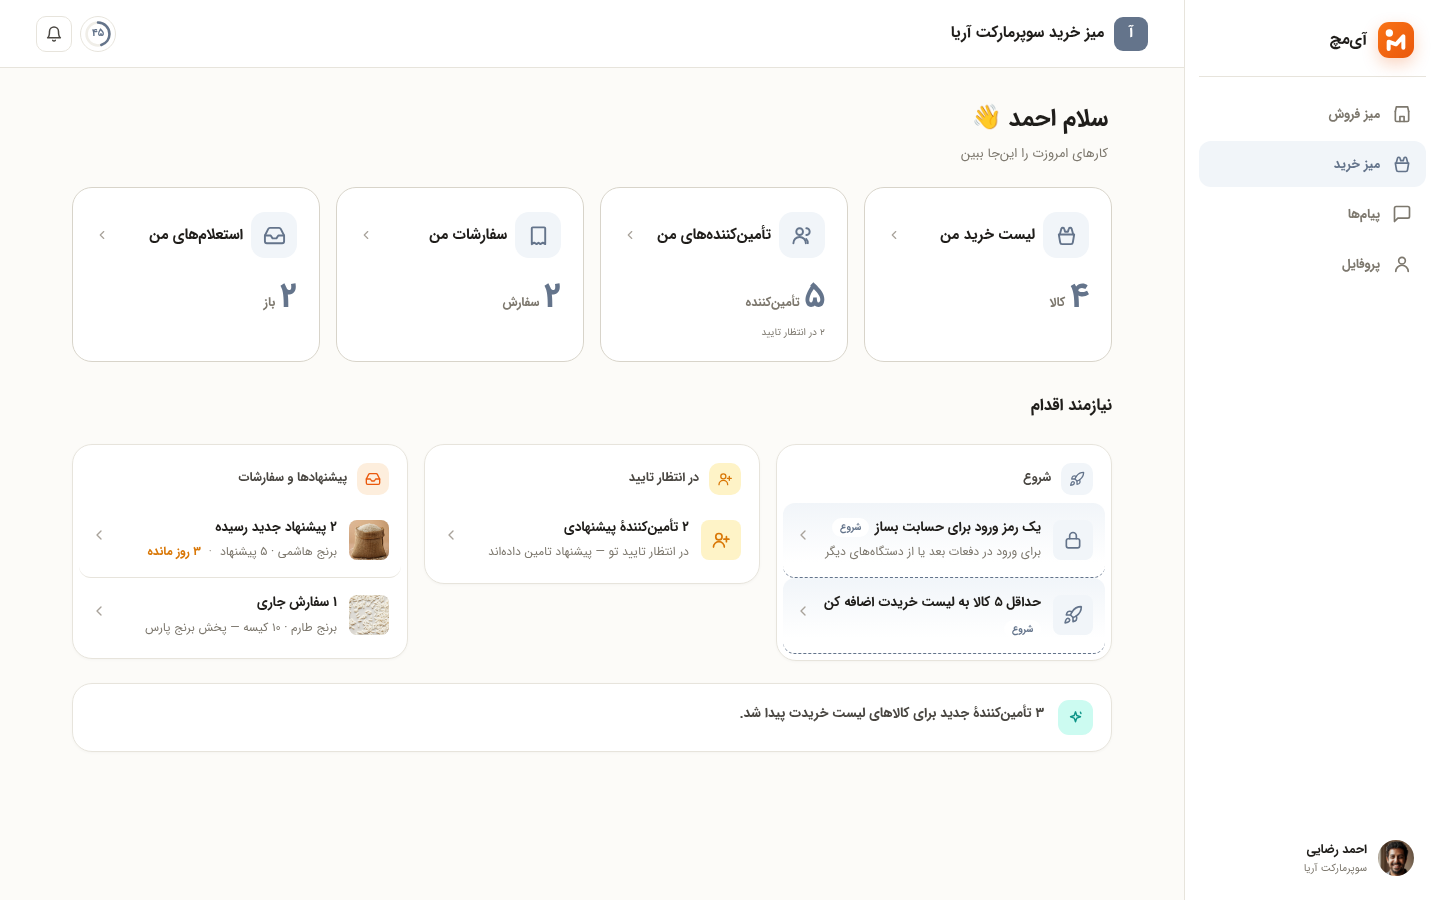
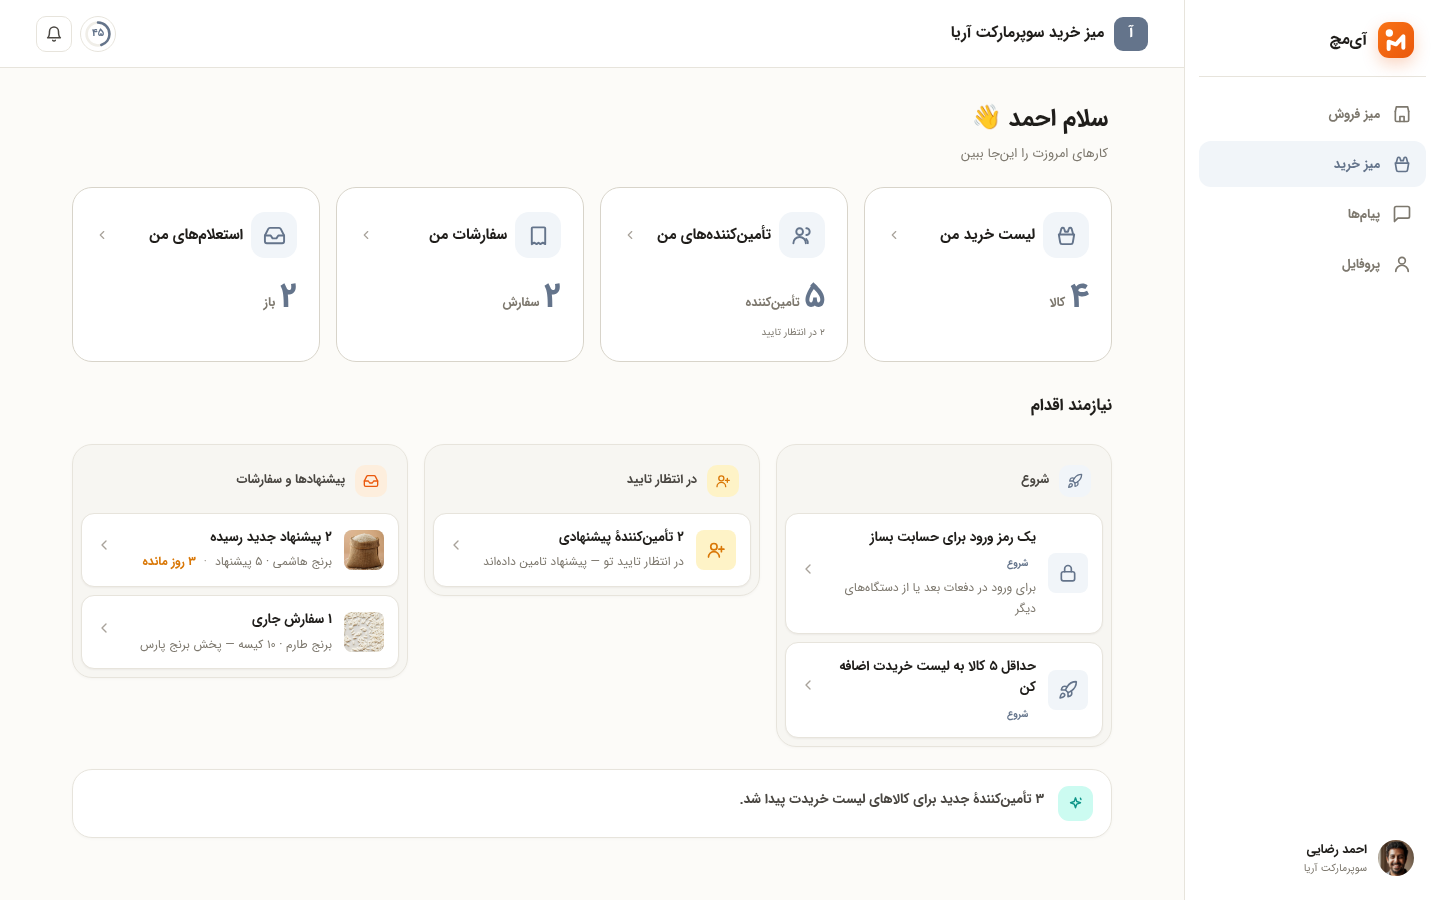
feat(FD-30 p3): lists de-glued + proportional + phase-3 grids/hero (owner: 'ردیفها در لیستها بههمچسبیده و مارجین تاپ نداری — زشت شده؛ بعضی لیستها عرض زیاد ولی ارتفاع موبایل — شبیه لولههای دراز؛ عرض بیشتر ⇔ کمی ارتفاع بیشتر برای تناسب') · GLOBAL: FD-29 single-paper+hairline pattern REPLACED by owner 

diff --git a/prototypes/imach-final-design/style.css b/prototypes/imach-final-design/style.css
@@ -4377,57 +4377,59 @@ textarea.input { height: auto; min-height: 88px; padding: 11px 13px; display: bl
     #phone[data-dk="1"] .dk-page .section-title h2 { font-size: 16.5px; }
     #phone[data-dk="1"] .dk-page .section-title h2 svg { width: 20px; height: 20px; }
 
-    /* ─── FD-29: ظرف کارت برای بدنه — محتوا مشخص دیده شود
-       (حکم مالک: «کانتینر کارتمانند که محتوا در بدنه کمی مشخصتر
-       دیده بشه، نه اینقدر بیروح و گمشده») — فهرستها روی یک
-       کاغذ واحد؛ ردیفها مسطح با خط مویی (الگوی جدولِ دسکتاپ). ─── */
-    #phone[data-dk="1"] .dk-list .body > .rows,
-    #phone[data-dk="1"] .dk-page .body > .rows,
-    #phone[data-dk="1"] .dk-desk .body > .rows,
+    /* ─── FD-30 (حکم مالک، بازطراحی لیستها): ردیفهای چسبیده حذف ───
+       «چرا ردیفها در لیستها بههمچسبیده و مارجین تاپ نداری؟ زشت
+       شده» + «وقتی عرض بیشتر میشود ارتفاع هم کمی بیشتر شود که
+       تناسب بیاید — نه لولهٔ دراز». الگوی FD-29 (کاغذ واحد + ردیفِ
+       مسطح با خط مویی) کنار رفت؛ جانشین: کارتهای مجزا با فاصلهٔ ۱۲
+       و نفسِ دسکتاپی — پدینگ/تایپ/آواتار درشتتر + مینیمم ارتفاع. */
+    #phone[data-dk="1"] .dk-list .body .rows,
+    #phone[data-dk="1"] .dk-page .body .rows,
     #phone[data-dk="1"] .dk-detail .dkd-main > .rows,
     #phone[data-dk="1"] .dk-profile .dkp-main .rows {
-        background: var(--surface);
-        border: 1px solid var(--border);
-        border-radius: 20px;
-        padding: 7px;
-        gap: 0;
-        box-shadow: 0 1px 3px rgba(31,29,26,.03);
+        background: none; border: 0; padding: 0; box-shadow: none;
+        gap: 12px;                    /* مارجینِ بین ردیفها — حکم مالک */
     }
-    #phone[data-dk="1"] .dk-list .body > .rows .row,
-    #phone[data-dk="1"] .dk-page .body > .rows .row,
-    #phone[data-dk="1"] .dk-desk .body > .rows .row,
+    /* FD-30: سلکتور عمیق — دفاتر ۰۹/۲۸/۱۱/۲۴ ردیفها را داخل host
+       میسازند (.rows فرزند مستقیم body نیست) */
+    #phone[data-dk="1"] .dk-list .body .rows .row,
+    #phone[data-dk="1"] .dk-page .body .rows .row,
     #phone[data-dk="1"] .dk-detail .dkd-main > .rows .row,
     #phone[data-dk="1"] .dk-profile .dkp-main .rows .row {
-        background: none; border: 0;
-        border-bottom: 1px solid var(--border);
-        border-radius: 13px;
-        padding: 15px 16px;
-        transition: background .15s;
+        background: var(--surface);
+        border: 1px solid var(--border);
+        border-radius: 16px;
+        padding: 17px 20px;
+        min-height: 88px;             /* تناسب ارتفاع با عرضِ دسکتاپ */
+        box-shadow: 0 1px 3px rgba(31,29,26,.03);
+        transition: border-color .16s, box-shadow .16s;
     }
-    #phone[data-dk="1"] .dk-list .body > .rows .row:last-child,
-    #phone[data-dk="1"] .dk-page .body > .rows .row:last-child,
-    #phone[data-dk="1"] .dk-desk .body > .rows .row:last-child,
-    #phone[data-dk="1"] .dk-detail .dkd-main > .rows .row:last-child,
-    #phone[data-dk="1"] .dk-profile .dkp-main .rows .row:last-child { border-bottom: 0; }
-    #phone[data-dk="1"] .dk-list .body > .rows .row:hover,
-    #phone[data-dk="1"] .dk-page .body > .rows .row:hover,
-    #phone[data-dk="1"] .dk-desk .body > .rows .row:hover,
+    #phone[data-dk="1"] .dk-list .body .rows .row:hover,
+    #phone[data-dk="1"] .dk-page .body .rows .row:hover,
     #phone[data-dk="1"] .dk-detail .dkd-main > .rows .row:hover,
-    #phone[data-dk="1"] .dk-profile .dkp-main .rows .row:hover { background: var(--surface-2); }
-    /* ردیف «شروع»: تمایز حفظ — خطچین نارنجی + تینت ملایم */
-    #phone[data-dk="1"] .dk-desk .body > .rows .row.row-start,
-    #phone[data-dk="1"] .dk-page .body > .rows .row.row-start,
-    #phone[data-dk="1"] .dk-list .body > .rows .row.row-start {
-        border-bottom: 1.5px dashed var(--arm);
-        background: linear-gradient(180deg, var(--arm-soft), var(--surface) 80%);
+    #phone[data-dk="1"] .dk-profile .dkp-main .rows .row:hover {
+        border-color: var(--border-2);
+        box-shadow: 0 10px 26px rgba(31,29,26,.08);
     }
+    /* ردیف «شروع»: قابِ خطچینِ کامل + تینت (نه فقط خطِ زیرین) */
+    #phone[data-dk="1"] .dk-page .body .rows .row.row-start,
+    #phone[data-dk="1"] .dk-list .body .rows .row.row-start {
+        border: 1.5px dashed var(--arm);
+        background: linear-gradient(180deg, var(--arm-soft), var(--surface) 85%);
+    }
+    /* خالی/رندر داخل گریدهای فاز ۳: تمامعرض */
+    #phone[data-dk="1"] .dk-list .body .rows > .empty,
+    #phone[data-dk="1"] .dk-page .body .rows > .empty { grid-column: 1 / -1; }
+    /* استثنای ۲۵: گیرندگان استعلام در سایدبار چسبان — ردیف فشرده */
+    #phone[data-dk="1"] .dk-rfq .dkrf-side .rows { gap: 8px; }
+    #phone[data-dk="1"] .dk-rfq .dkrf-side .row { padding: 12px 14px; border-radius: 14px; min-height: 0; }
 
-    /* ─── dk-list: تایپوگرافی ردیفهای پهن ─── */
-    #phone[data-dk="1"] .dk-list .row-title { font-size: 14px; }
-    #phone[data-dk="1"] .dk-list .row-sub { font-size: 12.5px; margin-top: 4px; }
-    #phone[data-dk="1"] .dk-list .avatar { width: 46px; height: 46px; font-size: 16px; }
-    #phone[data-dk="1"] .dk-list .thumb-sm { width: 46px; height: 46px; }
-    #phone[data-dk="1"] .dk-list .contact-row { padding: 14px 16px; border-radius: 13px; }
+    /* ─── dk-list: تایپوگرافی ردیفهای کارتمانند (FD-30: درشتتر) ─── */
+    #phone[data-dk="1"] .dk-list .row-title { font-size: 15px; }
+    #phone[data-dk="1"] .dk-list .row-sub { font-size: 13px; margin-top: 4px; }
+    #phone[data-dk="1"] .dk-list .avatar { width: 50px; height: 50px; font-size: 17px; }
+    #phone[data-dk="1"] .dk-list .thumb-sm { width: 50px; height: 50px; }
+    #phone[data-dk="1"] .dk-list .contact-row { padding: 17px 20px; border-radius: 16px; }
     #phone[data-dk="1"] .dk-list .empty { padding: 40px 20px; border-radius: 18px; }
 
     /* ─── dk-form: فرم مرکزی ۶۲۰ ─── */
@@ -5069,11 +5071,13 @@ textarea.input { height: auto; min-height: 88px; padding: 11px 13px; display: bl
     }
     #phone[data-dk="1"] .dk-desk .dsk-col {
         min-width: 0;
-        display: flex; flex-direction: column;
-        background: var(--surface);
+        display: flex; flex-direction: column; gap: 8px;
+        /* FD-30: پسزمینهٔ تینت — ردیفها کارتهای سفیدِ جدا روی ستون
+           (الگوی Notion database group)؛ قبلاً ردیفها چسبیده بودند */
+        background: var(--surface-2);
         border: 1px solid var(--border);
         border-radius: 20px;
-        padding: 6px;
+        padding: 8px;
         box-shadow: 0 1px 3px rgba(31,29,26,.03);
     }
     #phone[data-dk="1"] .dk-desk .dsk-col-h {
@@ -5095,7 +5099,11 @@ textarea.input { height: auto; min-height: 88px; padding: 11px 13px; display: bl
         background: var(--primary-soft); color: var(--primary-strong);
     }
     #phone[data-dk="1"] .dk-desk .rows.dsk-rows .row {
-        padding: 14px 12px; border-radius: 12px;
+        background: var(--surface);
+        border: 1px solid var(--border);
+        border-radius: 13px;
+        padding: 13px 14px;
+        box-shadow: 0 1px 2px rgba(31,29,26,.05);
     }
     #phone[data-dk="1"] .dk-desk .rows.dsk-rows .row .row-title { font-size: 13.5px; }
     #phone[data-dk="1"] .dk-desk .rows.dsk-rows .row .row-sub { font-size: 12px; }
@@ -5346,4 +5354,87 @@ textarea.input { height: auto; min-height: 88px; padding: 11px 13px; display: bl
         background: none; backdrop-filter: none; border-top: 0;
         padding: 12px 0 0;
     }
+
+    /* ═══════════════════════════════════════════════════════════
+       FD-30 فاز ۳ — فهرستها: گرید موجودیت + گرید مقایسه + قهرمان
+       افقی (حکم مالک: ردیفِ تمامعرض ۱۰۸۰px = «لولهٔ دراز»؛ عرض زیاد
+       باید تناسب بگیرد — یا ستونبندی یا ارتفاعِ بیشتر)
+       ═══════════════════════════════════════════════════════════ */
+
+    /* ۰۸/۲۲: دفتر مشتریان و تأمینکنندگان — گرید موجودیت ۳ستونه
+       (الگوی Airbnb/Dribbble — الگوی «و» از بریف طراحی) */
+    #phone[data-dk="1"] #s-customers .body > .rows,
+    #phone[data-dk="1"] #s-buy-suppliers .body > .rows {
+        display: grid;
+        grid-template-columns: repeat(auto-fill, minmax(330px, 1fr));
+        gap: 12px; align-items: stretch;
+    }
+    /* دعوت: نه دکمهٔ ۱۰۸۰px تمامعرض — قرصِ جمع و مشخص */
+    #phone[data-dk="1"] #s-customers #cust-invite-2,
+    #phone[data-dk="1"] #s-buy-suppliers #sup-invite-2 { max-width: 460px; }
+
+    /* ۲۶ پیشنهادها: گرید ۳ستونه + کارتهای نفسدار
+       (کارتِ ۵۶۶px با ارتفاعِ موبایل = لوله؛ ۳×۳۸۰ + پدینگ/تایپِ
+       درشتتر — قانون FD-28 گرید۲ با این بلوک جایگزین شد) */
+    #phone[data-dk="1"] .dk-offers #offers-list {
+        display: grid;
+        grid-template-columns: repeat(auto-fill, minmax(340px, 1fr));
+        gap: 16px;
+    }
+    #phone[data-dk="1"] .dk-offers #offers-list > .empty { grid-column: 1 / -1; }
+    #phone[data-dk="1"] .dk-offers .offer-card { padding: 18px 20px; border-radius: 18px; }
+    #phone[data-dk="1"] .dk-offers .offer-card .avatar { width: 46px; height: 46px; font-size: 16px; }
+    #phone[data-dk="1"] .dk-offers .offer-price .p { font-size: 17px; }
+    #phone[data-dk="1"] .dk-offers .offer-price .u { font-size: 10.5px; }
+    #phone[data-dk="1"] .dk-offers .of-items { padding: 4px 2px 8px; }
+    #phone[data-dk="1"] .dk-offers .of-it { padding: 8px 0; font-size: 12.5px; }
+    #phone[data-dk="1"] .dk-offers .of-total { font-size: 13px; padding-top: 9px; }
+    #phone[data-dk="1"] .dk-offers .ot-chip b { font-size: 12px; }
+
+    /* ۱۵ امتیاز: قهرمان افقی + دوستونه (مسیر | کارها) — الگوی «ز»
+       (استایلهای inline موبایل با !important شکسته میشوند —
+       الگوی ثابتشدهٔ FD-28؛ صفحه با ID جدا میشود تا ۳۸ قاطی نشود) */
+    #phone[data-dk="1"] #s-network-score .body {
+        max-width: 1080px;
+        display: grid;
+        grid-template-columns: 400px minmax(0, 1fr);
+        gap: 16px 28px; align-items: start;
+    }
+    #phone[data-dk="1"] #s-network-score .body > .score-hero,
+    #phone[data-dk="1"] #s-network-score .body > .hint-line,
+    #phone[data-dk="1"] #s-network-score .body > .accel-link { grid-column: 1 / -1; }
+    #phone[data-dk="1"] #s-network-score .score-hero {
+        flex-direction: row !important; text-align: right !important;
+        align-items: center; gap: 30px; padding: 26px 32px;
+    }
+    #phone[data-dk="1"] #s-network-score .score-hero .score-circle {
+        width: 128px !important; height: 128px !important;
+        border-width: 7px !important; flex-shrink: 0;
+    }
+    #phone[data-dk="1"] #s-network-score .score-hero .score-circle .num { font-size: 34px !important; }
+    #phone[data-dk="1"] #s-network-score .score-hero [id="sc-hero-t"] { font-size: 17px !important; }
+    #phone[data-dk="1"] #s-network-score .score-hero p { font-size: 13px !important; }
+    #phone[data-dk="1"] #s-network-score .score-hero .progress-track {
+        max-width: none !important; margin: 14px 0 0 !important;
+    }
+    #phone[data-dk="1"] #s-network-score .body > .score-path {
+        grid-column: 1; position: sticky; top: 88px;
+    }
+    #phone[data-dk="1"] #s-network-score .body > #sc-done-wrap,
+    #phone[data-dk="1"] #s-network-score .body > #sc-todo-wrap { grid-column: 2; min-width: 0; }
+    #phone[data-dk="1"] #s-network-score .body > .score-path .sp-row { padding: 14px 16px; }
+    #phone[data-dk="1"] #s-network-score .body > .score-path .sp-row b { font-size: 13.5px; }
+    #phone[data-dk="1"] #s-network-score .rows .row { padding: 15px 18px; border-radius: 14px; min-height: 0; }
+
+    /* ۳۸ نماینده: ۴ کاشی یکردیف + گرید کسبوکارها + بدنهٔ پهن */
+    #phone[data-dk="1"] #s-salesrep .body { max-width: 1120px; }
+    #phone[data-dk="1"] #s-salesrep .rep-duo {
+        grid-template-columns: repeat(4, minmax(0, 1fr)); gap: 14px;
+    }
+    #phone[data-dk="1"] #s-salesrep .rep-biz-list {
+        display: grid;
+        grid-template-columns: repeat(auto-fill, minmax(330px, 1fr));
+        gap: 12px;
+    }
+    #phone[data-dk="1"] #s-salesrep .rep-biz { padding: 16px 18px; border-radius: 16px; }
 }

diff --git a/prototypes/imach-final-design/qa/README.md b/prototypes/imach-final-design/qa/README.md
@@ -92,3 +92,23 @@ fd18 50/50 · fd20 16/16 · fd24 33/33 · smoke 41/41.
   میشوند (فعل=arm، گذشته=سبز).
 - جفتکردن فیلدها بدون تغییر DOM: گرید دوستونه + span با :has(#id) —
   فیلدهای پویا/مشترک (قیمت بسته/واحد) کنار هم مینشینند.
+
+## FD-30 فاز ۳ — فهرستها: فاصلهٔ ردیفها + تناسب + گریدها
+
+| اسکریپت | چه میسنجد | نتیجهٔ FD-30 |
+|---|---|---|
+| `fd29-qa.sh` | بخش ۱۰/۱۰ب بازنویسی: gap ۱۲ روی همهٔ .rows (حتی داخل hostهای ۰۹/۲۸) · ردیف=کارت با قاب/شعاع ۱۶ · مینیمم ارتفاع ۸۸ · گرید موجودیت ۰۸/۲۲ · دعوت ≤۴۶۰ · کانبان gap ۸ + کارت روی تینت · ۲۶ گرید ≥۳ + کارت ۱۸/۲۰ + عرض ≤۴۲۰ · ۱۵ قهرمان row + بدنه گرید ۲ + مسیر چسبان راست · ۳۸ چهار کاشی یکردیف + گرید ≥۳ · موبایل: ۰۸ flex/gap۸ · ۲۶ block · ۱۵ column | **۹۱/۹۱** |
+| `fd28-qa.sh` | بدون تغییر چک — ۴۲/۴۵ (۳ دلتای مستند FD-29؛ wiz860 حالا پاس) | **۴۲/۴۵** |
+| smoke | ۴۱ صفحه | **۴۱/۴۱** |
+| VLM | ۶ اسکرین دسکتاپ (۰۸/۲۲/۲۶/۲۹/۱۵/۳۸) + میز فروش تازه — همه «مشکل جدی ندارد» با ذکر صریح «فاصله استاندارد» و «نه لولهای» · ۳ اسکرین موبایل سالم | ۷+۳ شات CLEAN |
+
+درسهای فاز:
+- سلکتورِ `> .rows` (فرزند مستقیم) دفاترِ رندر-در-host را میبخشد —
+  ۰۹/۲۸ `.rows` را داخل `#sell-orders-host` میسازند؛ عمقیکردن به
+  `.body .rows` + استثنای صریح برای سایدبار ۲۵ (ردیف فشرده) درستتر
+  از فرزند-مستقیم بود.
+- دو حکم مالک این فاز = قاعدهٔ همیشگی: ردیفهای لیست دسکتاپ =
+  کارتهای مجزا با فاصله (نه کاغذ واحد با خط مویی)؛ عرضِ زیاد باید
+  تناسب بگیرد (ستونبندی یا ارتفاعِ بیشتر) — «لولهٔ دراز» ممنوع.
+- صفحههای هم-کلاس (۱۵/۳۸ هر دو dk-rep) با سلکتور ID جدا شوند وگرنه
+  گریدِ صفحهٔ یکی چیدمانِ دیگری را میشکند.
